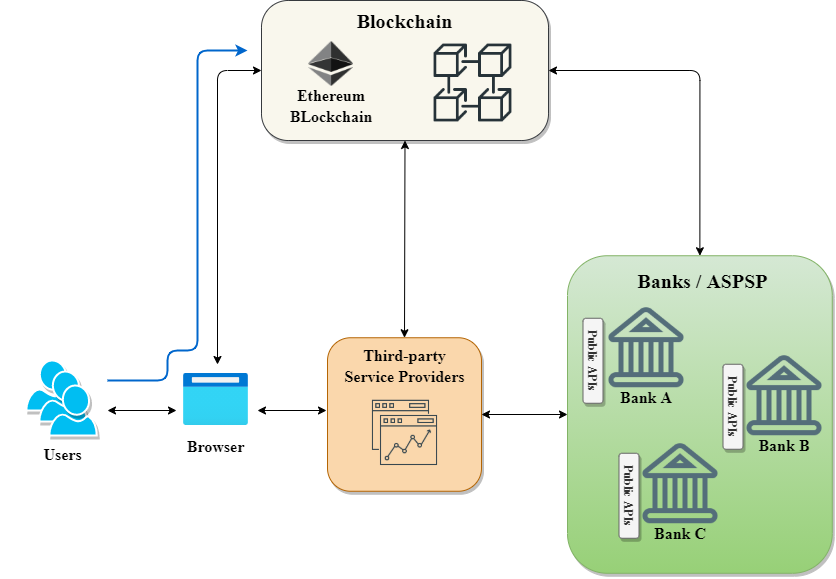
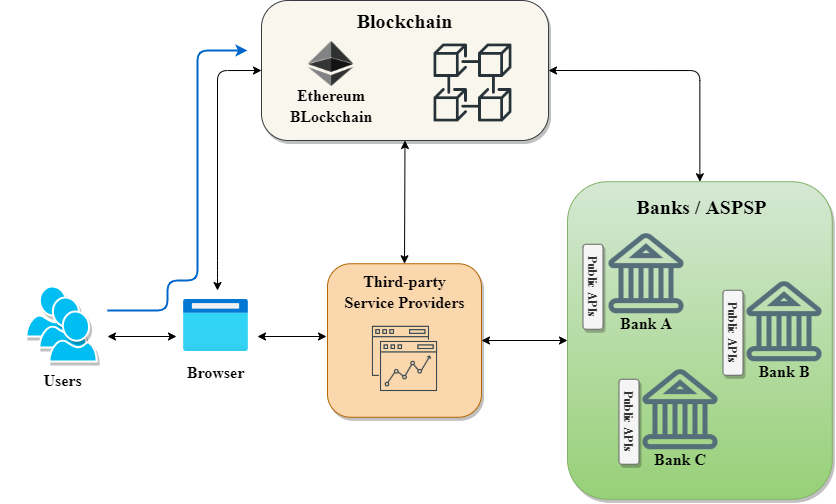
update system overview and typo

diff --git a/chapters/03 system_design.tex b/chapters/03 system_design.tex
@@ -2,34 +2,34 @@
 \label{chapter:design}
 
 \section{Overview}
-    The architecture of our system is shown in Figure~\ref{fig:system_architecture}. The Ethrerum blockchain is resposible for the customer digital identity and access control management, including identity creation and storage.
-\begin{figure}[hb]
-    \centering
-    \includegraphics[height=!,width=1\linewidth,keepaspectratio=true]{figures/system_architecture.png}
-    \caption{{\footnotesize System Architecture}}
-    \label{fig:system_architecture}
-\end{figure}
+    \begin{figure}[htb]
+        \centering
+        \includegraphics[height=!,width=1\linewidth,keepaspectratio=true]{figures/system_architecture.png}
+        \caption{{\footnotesize System Architecture}}
+        \label{fig:system_architecture}
+    \end{figure}
+    The architecture of our system is given in figure~\ref{fig:system_architecture}. Our proposed system solved the account integration and identity verification. And it can apply to various scenarios which need data sharing and distributed access control management such as open banking, medical records, and academic records. At the initial stage, every organization and TSP get an Ethereum account and its corresponding private key to take part in this ecosystem. They must keep their private key safe, or identity theft may occur.  There are several parties in our system: blockchain network, organization, third-party service provider, and user. The interpretation of these parties is stated as following:\par
 
-\newpage
-\begin{figure}[hb]
-    \centering
-    \includegraphics[height=!,width=1\linewidth,keepaspectratio=true]{figures/system architecture-banks.png}
-    \caption{{\footnotesize Relation between open banking roles}}
-    \label{fig:relation}
-\end{figure}
-    In order to apply our proposed system to open banking ecosystem, we have three clearly defined roles: Customer (User), Financial institution, and Third-party services provider. Figure~\ref{fig:relation} gives an overview of our proposed system. It shows the relation between these roles and includes workflows, detailed in Sect.~\ref{ssec:workflow} Each customer interacts with Blockchain by using MetaMask, they not only login with MetaMask but also manage their own access manager contract. That's why customers can allow the specific party to access their data.
+    \begin{itemize}
+        \item \textbf{Blockchain network:} The Ethereum blockchain network is responsible for the user's digital identity and access control management through smart contracts, including identity creation and storage. There have two kinds of contracts to realize that account integration and access manager, detailed in Sect.~\ref{chapter:implementation}.  
+        \item \textbf{Organization:} A set of organizations within an ecosystem, identified by the Ethereum account and IP addresses. Each organization represents an independent system, it owns membership software that provides an organization with functionality such as storing and editing member information. The organization not only provides services to customers depend on applications, but also collects user data by using a database. In this paper, organizations provide an interface that users decide to share data.
+        \item \textbf{Third-party service provider:} The third-party service provider can be any organization or entity that performs financial services to customer. In this paper, we assume that TSP doesn't manage membership software and they retrieve customer data through blockchain technology.
+        \item \textbf{User:} A user owns an organization account and wants to participate in our proposed system. After registering an organization account, the user first needs to pass identity card authentication. Due to the digital identity is unique and important on the smart contract, the organization takes responsibility for ensuring the correct identification card number and the safety of user's personal data. Besides, the user should generate the Ethereum account themself through Metamask.
+    \end{itemize}
 
+    \newpage    
 \section{Scenario}
-
-    For user perspective, our proposed system provide a single digital ID with Ethereum blockchain.
-
+    \begin{figure}[htb]
+        \centering
+        \includegraphics[height=!,width=1\linewidth,keepaspectratio=true]{figures/system architecture-banks.png}
+        \caption{{\footnotesize Relation between open banking roles}}
+        \label{fig:relation}
+    \end{figure}
+        From the user perspective, our proposed system provides a single digital identity and access control. The access control for data sharing is constructed using smart contracts. So when banks disclose user's personal data to TSP, banks must have the user's consent through call specific user's smart contract. \par
+        In order to apply our proposed system to open banking ecosystem, we have three clearly defined roles: Customer (User), Financial institution, and Third-party services provider. Figure~\ref{fig:relation} gives an overview of our proposed system. It shows the relation between these roles and includes workflows, detailed in Sect.~\ref{ssec:workflow} Each customer interacts with Blockchain by using MetaMask, they not only login with MetaMask but also manage their own access manager contract. That's why customers can allow the specific party to access their data.
+    
 \section{Workflow} \label{ssec:workflow}
-\begin{itemize}
-    \item Verify unique ID stage
-    \item Binding account stage
-    \item Third party login stage
-\end{itemize}
-\subsection{Identity verification}
-\subsection{Account binding}
-\subsection{Third-party login with Ethereum account}
-\subsection{Data sharing}
+    \subsection{Identity verification}
+    \subsection{Account binding}
+    \subsection{Third-party login with Ethereum account}
+    \subsection{Data sharing}

diff --git a/config/frontmatters.tex b/config/frontmatters.tex
@@ -36,9 +36,9 @@
 \location{Hsinchu, Taiwan}
 
 % Date of final submission
-\degreemonth{Sep}
+\degreemonth{Aug}
 \degreeyear{2021}
-\degreeyearzh{中 華 民 國 110 年 7 月}
+\degreeyearzh{中 華 民 國 110 年 8 月}
 
 % Watermark
 \watermark{figures/nctu_logo.jpg}
